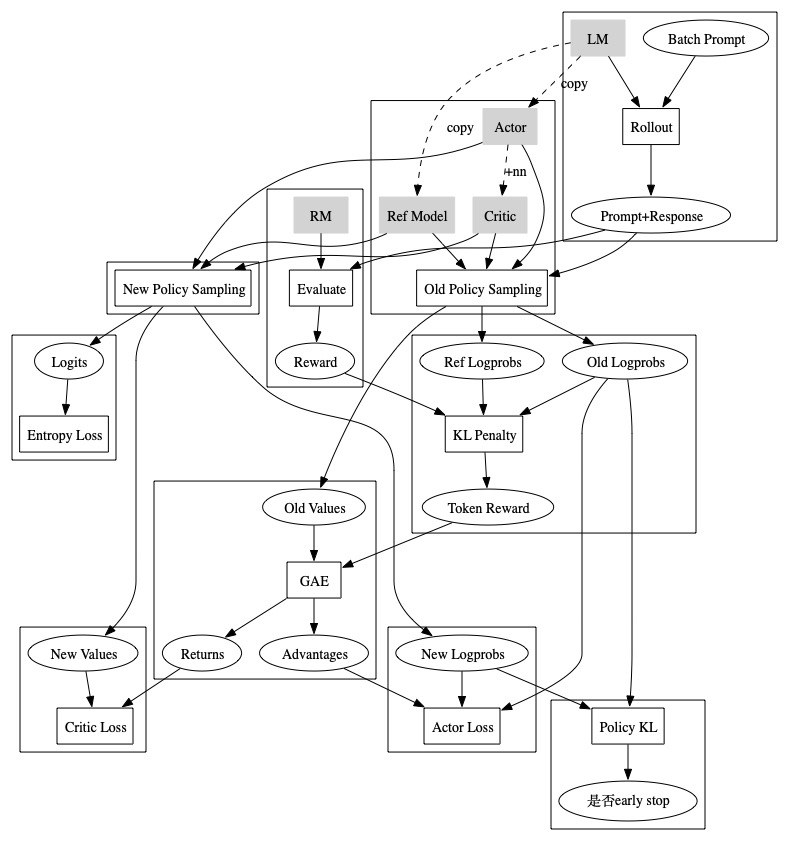
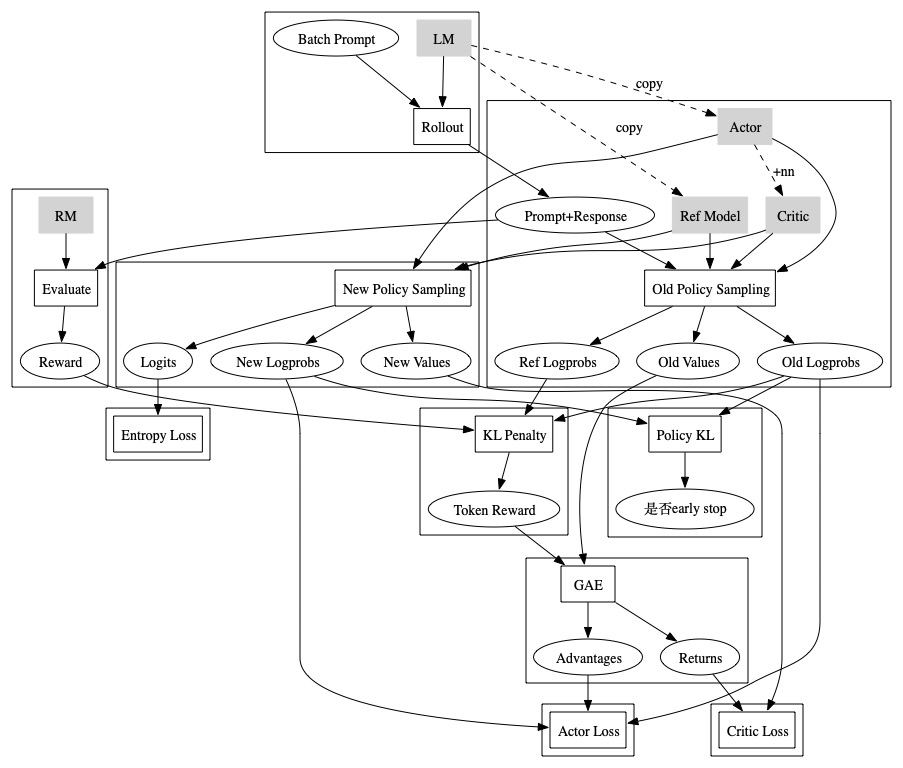
x

diff --git a/posts/llm_aigc.md b/posts/llm_aigc.md
@@ -86,7 +86,16 @@ DeepMind对Gopher用了类似的奖励设置，但用的是A2C来优化梯度。
 
 [https://zhuanlan.zhihu.com/p/635757674](https://zhuanlan.zhihu.com/p/635757674)
 
+[Secrets of RLHF in Large Language Models Part I: PPO](https://arxiv.org/pdf/2307.04964.pdf)
+
+
 ![](../assets/rlhf-ppo-flows-orig.webp)
+
++ Rollout and Evaluation：从prompt库里抽样，使用语言模型生成response，然后使用奖励模型（Reward Model, RM）给出奖励得分。这个得分反映了生成的response的质量，比如它是否符合人类的偏好，是否符合任务的要求等。
++ Make experience：收集了一系列的“经验”，即模型的行为和对应的奖励。这些经验包括了模型生成的response以及对应的奖励得分。这些经验将被用于下一步的优化过程。
++ Optimization：使用收集到的经验来更新模型的参数。具体来说，我们使用PPO算法来调整模型的参数，使得模型生成的response的奖励得分能够增加。PPO算法的一个关键特性是它尝试保持模型的行为不会发生太大的改变，这有助于保证模型的稳定性。
+
+![](../assets/rlhf-workflow.jpeg)
 
 
 + Rollout：根据策略（LM）生成轨迹（文本）。
